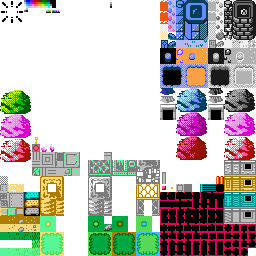
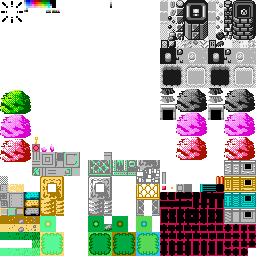
sets!

Changed region(s): [[0.625, 0.0, 0.875, 0.625]]

diff --git a/index.html b/index.html
@@ -81,6 +81,10 @@
     
     currPal = pals[0];
     
+    var sets = [0,6];
+    
+    spriteSet = sets[0];
+    
     //initiate canvas
 	var canvas = document.getElementById("myCanvas");
 	var ctx = canvas.getContext("2d");
@@ -907,6 +911,9 @@
         //init palette
         var rand = Math.floor(Math.random()*pals.length);
         palSwap(pals[rand]);
+        
+        rand = Math.floor(Math.random()*sets.length);
+        spriteSet = sets[rand];
     }
     
     function palSwap(newPal) {
